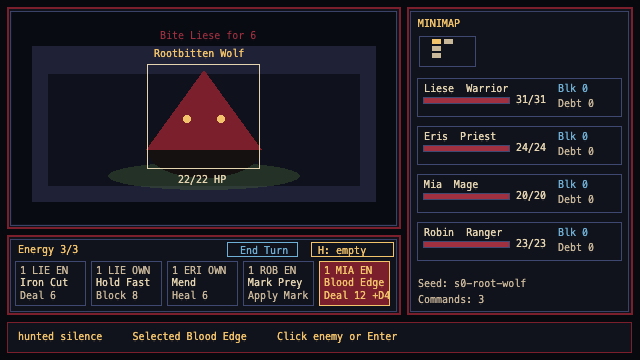
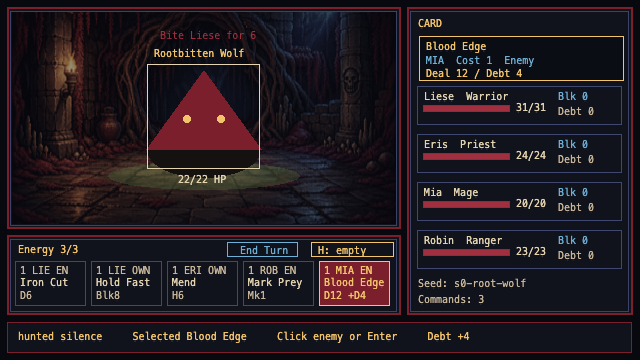
Use approved combat background in gameplay

diff --git a/src/scenes/S0Scene.ts b/src/scenes/S0Scene.ts
@@ -1,4 +1,5 @@
 import Phaser from 'phaser';
+import { ASSET_MANIFEST_KEY, ASSET_MANIFEST_URL, assetFromManifest } from '../assets/manifest';
 import { EventScheduler } from '../fx/eventScheduler';
 import { getInitialFeelSettings, planFeelCues, type FeelCue, type FeelSettings, type FeelTarget } from '../fx/feelScheduler';
 import { GAME_HEIGHT, GAME_WIDTH, S0_LAYOUT, SIDE_PANEL, TRAY, VIEWPORT } from '../game/layout';
@@ -30,6 +31,14 @@ declare global {
       selectedCardSummary: string | null;
       selectedStatusRule: string | null;
       intentText: string | null;
+      gameplayAssets: {
+        combatBackground: null | {
+          id: string;
+          path: string;
+          approvalGate: string;
+        };
+        enemySprite: null;
+      };
       feelSettings: FeelSettings;
       lastEvents: readonly GameEvent[];
       dispatch?: (command: SliceCommand) => readonly GameEvent[];
@@ -43,6 +52,10 @@ const textStyle = THEME.textStyle;
 const layout = S0_LAYOUT;
 const SAVE_KEY = 'hollowmark:s0-save';
 const M1_COMBAT_SEED = 'm1-natural-19';
+const GAMEPLAY_COMBAT_BACKGROUND = {
+  id: 'underroot.combat.placeholder',
+  key: 'gameplay-underroot-combat-background',
+} as const;
 const COMPACT_CARD_NAMES: Record<string, string> = {
   'Ringing Blow': 'Ring Blow',
   'Shadow Mark': 'Shado Mark',
@@ -54,12 +67,18 @@ const COMPACT_CARD_NAMES: Record<string, string> = {
   'Sanctuary Veil': 'Sanct Veil',
 };
 type ExploreMotionCommand = Extract<ExploreCommand, { type: 'step-forward' | 'step-back' | 'turn-left' | 'turn-right' }>;
+type GameplayCombatBackground = Readonly<{
+  id: string;
+  path: string;
+  approvalGate: string;
+}> | null;
 
 export class S0Scene extends Phaser.Scene {
   private state = createSliceState();
   private selectedCardId: CardInstanceId | null = null;
   private audioContext: AudioContext | null = null;
   private shell!: Phaser.GameObjects.Graphics;
+  private combatBackgroundImage: Phaser.GameObjects.Image | null = null;
   private viewport!: Phaser.GameObjects.Graphics;
   private tray!: Phaser.GameObjects.Graphics;
   private sidePanel!: Phaser.GameObjects.Graphics;
@@ -73,14 +92,30 @@ export class S0Scene extends Phaser.Scene {
   private hitStopTimeout: number | null = null;
   private exploreMotionTimer: Phaser.Time.TimerEvent | null = null;
   private queuedExploreMotion: ExploreMotionCommand | null = null;
+  private combatBackground: GameplayCombatBackground = null;
   private lastEvents: readonly GameEvent[] = [];
 
   constructor() {
     super('S0Scene');
   }
 
+  preload(): void {
+    this.load.json(ASSET_MANIFEST_KEY, ASSET_MANIFEST_URL);
+  }
+
   create() {
     this.state = initialStateForLocation(window.location);
+    this.combatBackground = gameplayCombatBackground(this.cache.json.get(ASSET_MANIFEST_KEY));
+    if (this.combatBackground) {
+      this.load.image(GAMEPLAY_COMBAT_BACKGROUND.key, this.combatBackground.path);
+      this.load.once(Phaser.Loader.Events.COMPLETE, () => this.createScene());
+      this.load.start();
+      return;
+    }
+    this.createScene();
+  }
+
+  private createScene(): void {
     this.buildViews();
     this.bindKey('W', () => this.handleExploreMotion({ type: 'step-forward' }));
     this.bindKey('UP', () => this.handleExploreMotion({ type: 'step-forward' }));
@@ -116,6 +151,12 @@ export class S0Scene extends Phaser.Scene {
   private buildViews() {
     this.cameras.main.setBackgroundColor(colors.void);
     this.shell = this.add.graphics();
+    if (this.combatBackground && this.textures.exists(GAMEPLAY_COMBAT_BACKGROUND.key)) {
+      this.combatBackgroundImage = this.add.image(VIEWPORT.x + VIEWPORT.w / 2, VIEWPORT.y + VIEWPORT.h / 2, GAMEPLAY_COMBAT_BACKGROUND.key);
+      this.combatBackgroundImage.setDisplaySize(VIEWPORT.w - S0_LAYOUT.viewport.innerPad * 2, VIEWPORT.h - S0_LAYOUT.viewport.innerPad * 2);
+      this.combatBackgroundImage.setAlpha(0.78);
+      this.combatBackgroundImage.setVisible(false);
+    }
     this.viewport = this.add.graphics();
     this.tray = this.add.graphics();
     this.sidePanel = this.add.graphics();
@@ -224,6 +265,7 @@ export class S0Scene extends Phaser.Scene {
   }
 
   private drawViewport() {
+    this.combatBackgroundImage?.setVisible(false);
     if (this.state.mode === 'town') {
       this.drawTownView();
       return;
@@ -332,14 +374,24 @@ export class S0Scene extends Phaser.Scene {
     const g = this.viewport;
     const combatLayout = layout.combat;
     const viewport = layout.viewport;
-    g.fillStyle(colors.combatVoid, 1).fillRect(
-      VIEWPORT.x + viewport.innerPad,
-      VIEWPORT.y + viewport.innerPad,
-      VIEWPORT.w - viewport.innerPad * 2,
-      VIEWPORT.h - viewport.innerPad * 2,
-    );
-    g.fillStyle(colors.stone, 1).fillRect(combatLayout.room.x, combatLayout.room.y, combatLayout.room.w, combatLayout.room.h);
-    g.fillStyle(colors.panelDeep, THEME.alpha.combatBackWall).fillRect(combatLayout.backWall.x, combatLayout.backWall.y, combatLayout.backWall.w, combatLayout.backWall.h);
+    if (this.combatBackgroundImage) {
+      this.combatBackgroundImage.setVisible(true);
+      g.fillStyle(colors.void, 0.28).fillRect(
+        VIEWPORT.x + viewport.innerPad,
+        VIEWPORT.y + viewport.innerPad,
+        VIEWPORT.w - viewport.innerPad * 2,
+        VIEWPORT.h - viewport.innerPad * 2,
+      );
+    } else {
+      g.fillStyle(colors.combatVoid, 1).fillRect(
+        VIEWPORT.x + viewport.innerPad,
+        VIEWPORT.y + viewport.innerPad,
+        VIEWPORT.w - viewport.innerPad * 2,
+        VIEWPORT.h - viewport.innerPad * 2,
+      );
+      g.fillStyle(colors.stone, 1).fillRect(combatLayout.room.x, combatLayout.room.y, combatLayout.room.w, combatLayout.room.h);
+      g.fillStyle(colors.panelDeep, THEME.alpha.combatBackWall).fillRect(combatLayout.backWall.x, combatLayout.backWall.y, combatLayout.backWall.w, combatLayout.backWall.h);
+    }
     g.fillStyle(colors.moss, THEME.alpha.combatFloorShadow).fillEllipse(
       combatLayout.floorShadow.x,
       combatLayout.floorShadow.y,
@@ -779,6 +831,10 @@ export class S0Scene extends Phaser.Scene {
       selectedCardSummary: this.selectedCardId && this.state.combat ? cardSummary(cardDefFor(this.state.combat, this.selectedCardId)) : null,
       selectedStatusRule: this.selectedStatusRule(),
       intentText: this.state.combat ? renderIntentText(this.state.combat.enemy.intent) : null,
+      gameplayAssets: {
+        combatBackground: this.combatBackground,
+        enemySprite: null,
+      },
       feelSettings: this.feelSettings,
       lastEvents: this.lastEvents,
     };
@@ -864,6 +920,20 @@ function isM2UnderrootRoute(location: Pick<Location, 'search'>): boolean {
 
 function isLabRoute(location: Pick<Location, 'search'>): boolean {
   return isM1CombatRoute(location) || isM2UnderrootRoute(location);
+}
+
+function gameplayCombatBackground(manifest: unknown): GameplayCombatBackground {
+  try {
+    const asset = assetFromManifest(manifest, GAMEPLAY_COMBAT_BACKGROUND.id);
+    if (asset.kind !== 'background' || asset.approvalGate !== 'approved-for-gameplay') return null;
+    return {
+      id: asset.id,
+      path: asset.previewPath,
+      approvalGate: asset.approvalGate,
+    };
+  } catch {
+    return null;
+  }
 }
 
 function targetCode(card: CardDef): string {

diff --git a/tests/browser/s0.spec.ts b/tests/browser/s0.spec.ts
@@ -22,6 +22,14 @@ declare global {
       selectedCardSummary: string | null;
       selectedStatusRule: string | null;
       intentText: string | null;
+      gameplayAssets: {
+        combatBackground: null | {
+          id: string;
+          path: string;
+          approvalGate: string;
+        };
+        enemySprite: null;
+      };
       feelSettings: FeelSettings;
       lastEvents: readonly GameEvent[];
       dispatch?: (command: SliceCommand) => readonly GameEvent[];
@@ -46,6 +54,14 @@ test('S0 browser smoke: move, hold, win, and capture canvas receipt', async ({ p
   const combatStarted = await getDebugState(page);
   expect(combatStarted.feelSettings.reducedMotion).toBe(false);
   expect(combatStarted.intentText).toBe('Bite Liese for 6');
+  expect(combatStarted.gameplayAssets).toEqual({
+    combatBackground: {
+      id: 'underroot.combat.placeholder',
+      path: '/assets/drafts/underroot/batch-01/underroot-combat-preview-01.png',
+      approvalGate: 'approved-for-gameplay',
+    },
+    enemySprite: null,
+  });
   const baselineObjects = combatStarted.objectCounts.total;
   expect(combatStarted.objectCounts.fx).toBe(0);
   await page.keyboard.press('KeyS');
@@ -676,6 +692,14 @@ async function expectDebugState(
 
 type DebugState = {
   intentText: string | null;
+  gameplayAssets: {
+    combatBackground: null | {
+      id: string;
+      path: string;
+      approvalGate: string;
+    };
+    enemySprite: null;
+  };
   objectCounts: {
     total: number;
     dynamicLabels: number;
@@ -693,11 +717,13 @@ type DebugState = {
 };
 
 async function getDebugState(page: Page): Promise<SliceState & DebugState> {
+  await page.waitForFunction(() => window.__HOLLOWMARK_DEBUG__);
   const debug = await page.evaluate(() => window.__HOLLOWMARK_DEBUG__);
   if (!debug) throw new Error('Missing Hollowmark debug state');
   return {
     ...debug.state,
     intentText: debug.intentText,
+    gameplayAssets: debug.gameplayAssets,
     objectCounts: debug.objectCounts,
     pendingEvents: debug.pendingEvents,
     selectedCardId: debug.selectedCardId,

diff --git a/.logs/m3-gameplay-combat-background.md b/.logs/m3-gameplay-combat-background.md
@@ -1,0 +1,19 @@
+# M3 Gameplay Combat Background
+
+Goal: let gameplay use the first approved visual asset without letting
+unapproved sprites slip into the encounter.
+
+## Changed
+
+- S0/M1 combat now loads `underroot.combat.placeholder` through the public asset
+  manifest only when its gate is `approved-for-gameplay`.
+- The combat background is rendered behind the existing placeholder wolf
+  geometry.
+- Debug state exposes the gameplay asset contract:
+  - approved combat background id/path/gate
+  - `enemySprite: null` while the Rootbitten Wolf remains unapproved
+
+## Boundary
+
+This is the first manifest-gated gameplay art use. The Rootbitten Wolf and card
+art remain review assets until their passports reach `approved`.
